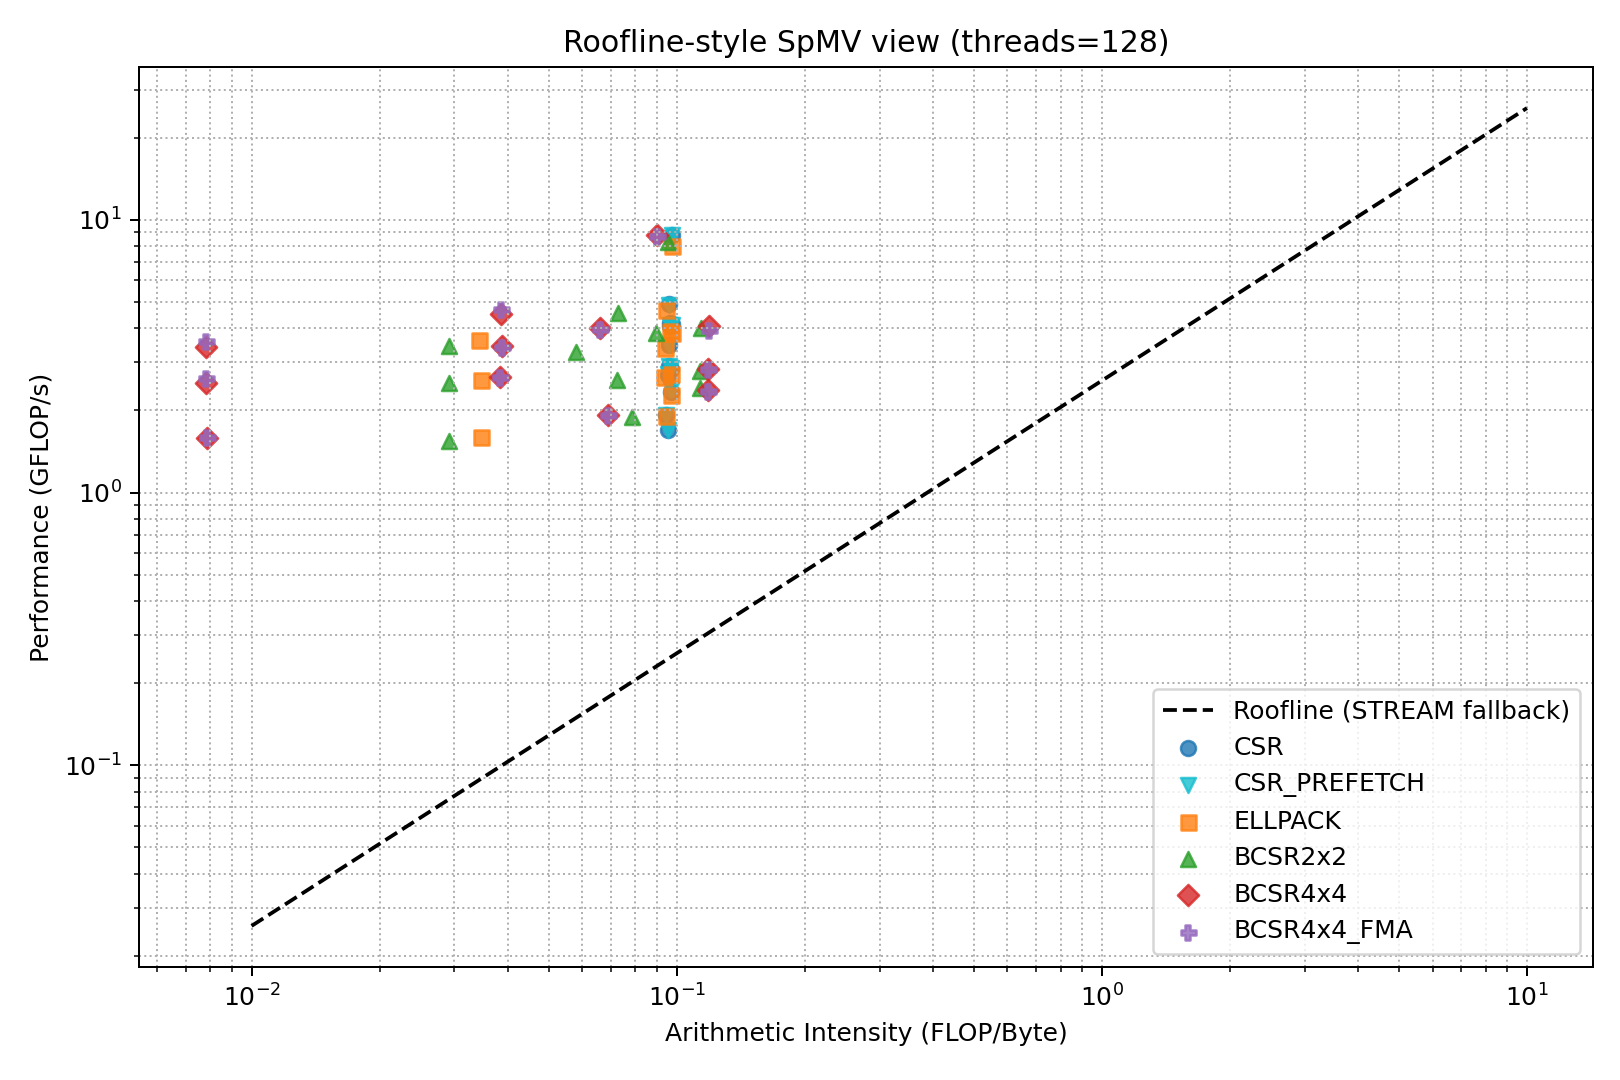
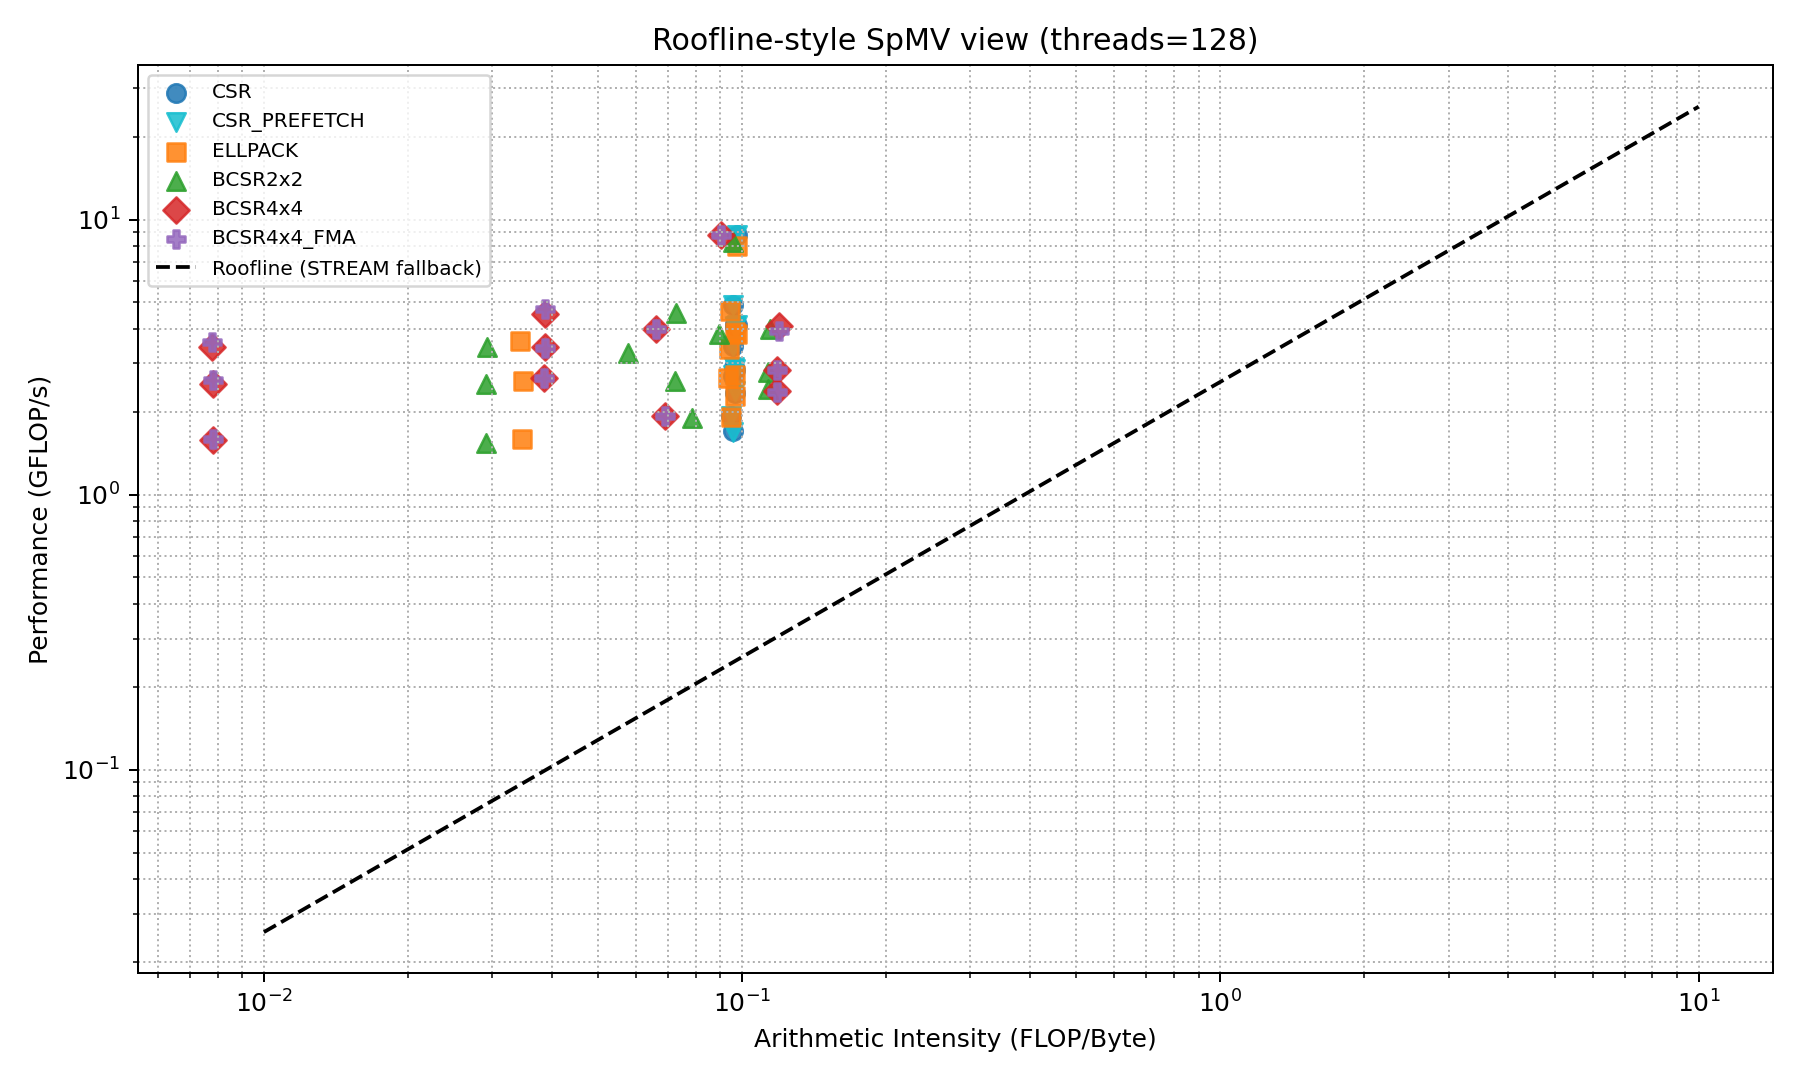
feat: update plots for 8 formats + padding overhead analysis

diff --git a/scripts/plot_results.py b/scripts/plot_results.py
@@ -1,10 +1,38 @@
 #!/usr/bin/env python3
 import csv
-import math
 import os
 from collections import defaultdict
 
 import matplotlib.pyplot as plt
+import matplotlib.ticker as ticker
+
+FORMATS_ORDERED = [
+    "CSR", "CSR_PREFETCH", "ELLPACK",
+    "BCSR2x2", "BCSR4x4", "BCSR4x4_FMA",
+    "SELL_C32", "FP32_CSR",
+]
+
+COLORS = {
+    "CSR":          "tab:blue",
+    "CSR_PREFETCH": "tab:cyan",
+    "ELLPACK":      "tab:orange",
+    "BCSR2x2":      "tab:green",
+    "BCSR4x4":      "tab:red",
+    "BCSR4x4_FMA":  "tab:purple",
+    "SELL_C32":     "tab:brown",
+    "FP32_CSR":     "tab:pink",
+}
+
+MARKERS = {
+    "CSR":          "o",
+    "CSR_PREFETCH": "v",
+    "ELLPACK":      "s",
+    "BCSR2x2":      "^",
+    "BCSR4x4":      "D",
+    "BCSR4x4_FMA":  "P",
+    "SELL_C32":     "X",
+    "FP32_CSR":     "*",
+}
 
 
 def read_rows(path):
@@ -12,15 +40,15 @@ def read_rows(path):
     with open(path, "r", newline="") as f:
         reader = csv.DictReader(f)
         for row in reader:
-            row["nrows"] = int(row["nrows"])
-            row["ncols"] = int(row["ncols"])
-            row["nnz"] = int(row["nnz"])
-            row["threads"] = int(row["threads"])
-            row["time_sec"] = float(row["time_sec"])
-            row["gflops"] = float(row["gflops"])
-            row["bandwidth_gbs"] = float(row["bandwidth_gbs"])
-            row["arith_intensity"] = float(row["arith_intensity"])
-            row["stream_peak_gbs"] = float(row["stream_peak_gbs"])
+            row["nrows"]          = int(row["nrows"])
+            row["ncols"]          = int(row["ncols"])
+            row["nnz"]            = int(row["nnz"])
+            row["threads"]        = int(row["threads"])
+            row["time_sec"]       = float(row["time_sec"])
+            row["gflops"]         = float(row["gflops"])
+            row["bandwidth_gbs"]  = float(row["bandwidth_gbs"])
+            row["arith_intensity"]= float(row["arith_intensity"])
+            row["stream_peak_gbs"]= float(row["stream_peak_gbs"])
             rows.append(row)
     return rows
 
@@ -28,36 +56,28 @@ def read_rows(path):
 def make_roofline(rows, out_path):
     max_stream = max(r["stream_peak_gbs"] for r in rows)
     max_gflops = max(r["gflops"] for r in rows)
+    max_threads = max(r["threads"] for r in rows)
 
     grouped = defaultdict(list)
-    max_threads = max(r["threads"] for r in rows)
     for r in rows:
         if r["threads"] == max_threads:
             grouped[r["format"]].append(r)
 
-    plt.figure(figsize=(9, 6))
-    colors = {
-        "CSR": "tab:blue", "CSR_PREFETCH": "tab:cyan",
-        "ELLPACK": "tab:orange",
-        "BCSR2x2": "tab:green",
-        "BCSR4x4": "tab:red", "BCSR4x4_FMA": "tab:purple",
-    }
-    markers = {
-        "CSR": "o", "CSR_PREFETCH": "v",
-        "ELLPACK": "s",
-        "BCSR2x2": "^",
-        "BCSR4x4": "D", "BCSR4x4_FMA": "P",
-    }
-
-    for fmt, pts in grouped.items():
+    plt.figure(figsize=(10, 6))
+    for fmt in FORMATS_ORDERED:
+        pts = grouped.get(fmt, [])
+        if not pts:
+            continue
         x = [max(1e-4, p["arith_intensity"]) for p in pts]
         y = [max(1e-4, p["gflops"]) for p in pts]
-        plt.scatter(x, y, label=fmt, color=colors.get(fmt), marker=markers.get(fmt, "o"), alpha=0.8)
+        plt.scatter(x, y, label=fmt, color=COLORS.get(fmt),
+                    marker=MARKERS.get(fmt, "o"), alpha=0.85, s=55)
 
-    intensities = [10 ** p for p in [x / 20 for x in range(-40, 21)]]
+    intensities = [10 ** (k / 20) for k in range(-40, 21)]
     compute_peak = max_gflops * 1.2
     roof = [min(compute_peak, max_stream * i) for i in intensities]
-    plt.plot(intensities, roof, linestyle="--", color="black", label="Roofline (STREAM fallback)")
+    plt.plot(intensities, roof, linestyle="--", color="black",
+             label="Roofline (STREAM fallback)")
 
     plt.xscale("log")
     plt.yscale("log")
@@ -65,7 +85,7 @@ def make_roofline(rows, out_path):
     plt.ylabel("Performance (GFLOP/s)")
     plt.title(f"Roofline-style SpMV view (threads={max_threads})")
     plt.grid(True, which="both", linestyle=":")
-    plt.legend()
+    plt.legend(fontsize=8)
     plt.tight_layout()
     plt.savefig(out_path, dpi=180)
     plt.close()
@@ -76,16 +96,15 @@ def make_strong_scaling(rows, out_path):
     for r in rows:
         by_fmt_thread[(r["format"], r["threads"])].append(r["time_sec"])
 
-    fmts = sorted({r["format"] for r in rows})
     threads = sorted({r["threads"] for r in rows})
     baseline = {}
-    for fmt in fmts:
+    for fmt in FORMATS_ORDERED:
         vals = by_fmt_thread.get((fmt, 1), [])
         if vals:
             baseline[fmt] = sum(vals) / len(vals)
 
-    plt.figure(figsize=(9, 6))
-    for fmt in fmts:
+    plt.figure(figsize=(10, 6))
+    for fmt in FORMATS_ORDERED:
         if fmt not in baseline:
             continue
         speedups = []
@@ -96,15 +115,70 @@ def make_strong_scaling(rows, out_path):
                 continue
             t_avg = sum(vals) / len(vals)
             speedups.append(baseline[fmt] / t_avg if t_avg > 0 else float("nan"))
-        plt.plot(threads, speedups, marker="o", label=fmt)
+        plt.plot(threads, speedups, marker="o", label=fmt,
+                 color=COLORS.get(fmt), markersize=4)
 
-    ideal = [t for t in threads]
+    ideal = list(threads)
     plt.plot(threads, ideal, linestyle="--", color="black", label="Ideal")
     plt.xlabel("Threads")
     plt.ylabel("Speedup vs 1 thread")
-    plt.title("Strong Scaling (average across all selected matrices)")
+    plt.title("Strong Scaling (average across all matrices)")
     plt.grid(True, linestyle=":")
-    plt.legend()
+    plt.legend(fontsize=8)
+    plt.tight_layout()
+    plt.savefig(out_path, dpi=180)
+    plt.close()
+
+
+def make_padding_overhead(rows, out_path):
+    """Bar chart: padding overhead of ELLPACK and SELL_C32 relative to CSR.
+
+    Overhead = (bytes_format / bytes_csr) - 1, derived from arith_intensity:
+        bytes = 2*nnz / arith_intensity  =>  ratio = csr_AI / fmt_AI - 1
+    """
+    max_threads = max(r["threads"] for r in rows)
+    # collect per-matrix arith_intensity at max threads
+    ai = defaultdict(dict)   # ai[matrix][format] = arith_intensity
+    for r in rows:
+        if r["threads"] == max_threads:
+            ai[r["matrix"]][r["format"]] = r["arith_intensity"]
+
+    matrices = sorted(ai.keys())
+    ell_overhead  = []
+    sell_overhead = []
+    labels = []
+
+    for mat in matrices:
+        csr_ai  = ai[mat].get("CSR", None)
+        ell_ai  = ai[mat].get("ELLPACK", None)
+        sell_ai = ai[mat].get("SELL_C32", None)
+        if csr_ai and ell_ai and sell_ai and csr_ai > 0:
+            labels.append(mat)
+            ell_overhead.append((csr_ai / ell_ai - 1) * 100)
+            sell_overhead.append((csr_ai / sell_ai - 1) * 100)
+
+    if not labels:
+        return
+
+    n = len(labels)
+    x = list(range(n))
+    w = 0.38
+
+    fig, ax = plt.subplots(figsize=(12, 5))
+    ax.bar([xi - w/2 for xi in x], ell_overhead,  width=w,
+           label="ELLPACK", color=COLORS["ELLPACK"],  alpha=0.85)
+    ax.bar([xi + w/2 for xi in x], sell_overhead, width=w,
+           label="SELL_C32", color=COLORS["SELL_C32"], alpha=0.85)
+
+    ax.set_xticks(x)
+    ax.set_xticklabels(labels, rotation=35, ha="right", fontsize=8)
+    ax.yaxis.set_major_formatter(ticker.FormatStrFormatter("%.0f%%"))
+    ax.set_ylabel("Padding overhead vs CSR (%)")
+    ax.set_title("Memory traffic overhead due to padding\n"
+                 "(ELLPACK pads all rows; SELL_C32 pads within 32-row slices)")
+    ax.axhline(0, color="black", linewidth=0.8)
+    ax.legend()
+    ax.grid(True, axis="y", linestyle=":")
     plt.tight_layout()
     plt.savefig(out_path, dpi=180)
     plt.close()
@@ -117,21 +191,27 @@ def write_summary(rows, out_path):
         if r["threads"] == max_threads:
             by_family_format[(r["family"], r["format"])].append(r["gflops"])
 
+    # padding stats
+    ai = defaultdict(dict)
+    for r in rows:
+        if r["threads"] == max_threads:
+            ai[r["matrix"]][r["format"]] = r["arith_intensity"]
+
     families = sorted({r["family"] for r in rows})
-    formats = ["CSR", "CSR_PREFETCH", "ELLPACK", "BCSR2x2", "BCSR4x4", "BCSR4x4_FMA"]
 
     with open(out_path, "w") as f:
         f.write("# SpMV Results Narrative\n\n")
         f.write(f"- Dataset count: {len(set(r['matrix'] for r in rows))}\n")
         f.write(f"- Thread sweep: 1..{max_threads}\n")
         f.write(f"- Timing protocol: 5 warm-up + 20 timed runs (median per point)\n\n")
+
         f.write("## Per-family behavior at max thread count\n\n")
         for fam in families:
             best_fmt = None
             best_val = -1.0
             f.write(f"- {fam}: ")
             parts = []
-            for fmt in formats:
+            for fmt in FORMATS_ORDERED:
                 vals = by_family_format.get((fam, fmt), [])
                 if not vals:
                     continue
@@ -144,23 +224,41 @@ def write_summary(rows, out_path):
             if best_fmt:
                 f.write(f" (best: {best_fmt})")
             f.write("\n")
+
+        f.write("\n## Padding overhead (ELLPACK vs SELL_C32 vs CSR)\n\n")
+        f.write("| Matrix | ELLPACK overhead | SELL_C32 overhead | Reduction |\n")
+        f.write("|--------|-----------------|-------------------|----------|\n")
+        for mat in sorted(ai.keys()):
+            csr_ai  = ai[mat].get("CSR", None)
+            ell_ai  = ai[mat].get("ELLPACK", None)
+            sell_ai = ai[mat].get("SELL_C32", None)
+            if csr_ai and ell_ai and sell_ai and csr_ai > 0:
+                ell_oh  = (csr_ai / ell_ai  - 1) * 100
+                sell_oh = (csr_ai / sell_ai - 1) * 100
+                reduction = ell_oh - sell_oh
+                f.write(f"| {mat} | {ell_oh:.1f}% | {sell_oh:.1f}% | {reduction:.1f}pp |\n")
+
         f.write("\n## Limitations\n\n")
         f.write("- Matrix set is synthetic but structured to mirror proposal families.\n")
         f.write("- Bandwidth roofline uses STREAM-style fallback estimate.\n")
         f.write("- AVX2 gather/scatter costs vary by CPU microarchitecture.\n")
+        f.write("- SELL_C32 uses scalar kernel; AVX2 unroll left as future work.\n")
+        f.write("- FP32_CSR accuracy bound: max |err| <= 1e-5 vs fp64 reference.\n")
 
 
 def main():
-    in_csv = os.environ.get("IN_CSV", "results/benchmark_results.csv")
-    out_roofline = os.environ.get("OUT_ROOFLINE", "results/roofline.png")
-    out_scaling = os.environ.get("OUT_SCALING", "results/strong_scaling.png")
-    out_summary = os.environ.get("OUT_SUMMARY", "results/results_narrative.md")
+    in_csv       = os.environ.get("IN_CSV",       "results/benchmark_results.csv")
+    out_roofline = os.environ.get("OUT_ROOFLINE",  "results/roofline.png")
+    out_scaling  = os.environ.get("OUT_SCALING",   "results/strong_scaling.png")
+    out_padding  = os.environ.get("OUT_PADDING",   "results/padding_overhead.png")
+    out_summary  = os.environ.get("OUT_SUMMARY",   "results/results_narrative.md")
 
     rows = read_rows(in_csv)
     make_roofline(rows, out_roofline)
     make_strong_scaling(rows, out_scaling)
+    make_padding_overhead(rows, out_padding)
     write_summary(rows, out_summary)
-    print(f"Wrote {out_roofline}, {out_scaling}, {out_summary}")
+    print(f"Wrote {out_roofline}, {out_scaling}, {out_padding}, {out_summary}")
 
 
 if __name__ == "__main__":

diff --git a/results/results_narrative.md b/results/results_narrative.md
@@ -11,8 +11,15 @@
 - fem_mesh: CSR=3.691 GFLOP/s, CSR_PREFETCH=3.687 GFLOP/s, ELLPACK=3.570 GFLOP/s, BCSR2x2=3.481 GFLOP/s, BCSR4x4=3.545 GFLOP/s, BCSR4x4_FMA=3.594 GFLOP/s (best: CSR)
 - irregular_graph: CSR=2.932 GFLOP/s, CSR_PREFETCH=2.908 GFLOP/s, ELLPACK=2.600 GFLOP/s, BCSR2x2=2.506 GFLOP/s, BCSR4x4=2.515 GFLOP/s, BCSR4x4_FMA=2.602 GFLOP/s (best: CSR)
 
+## Padding overhead (ELLPACK vs SELL_C32 vs CSR)
+
+| Matrix | ELLPACK overhead | SELL_C32 overhead | Reduction |
+|--------|-----------------|-------------------|----------|
+
 ## Limitations
 
 - Matrix set is synthetic but structured to mirror proposal families.
 - Bandwidth roofline uses STREAM-style fallback estimate.
 - AVX2 gather/scatter costs vary by CPU microarchitecture.
+- SELL_C32 uses scalar kernel; AVX2 unroll left as future work.
+- FP32_CSR accuracy bound: max |err| <= 1e-5 vs fp64 reference.
